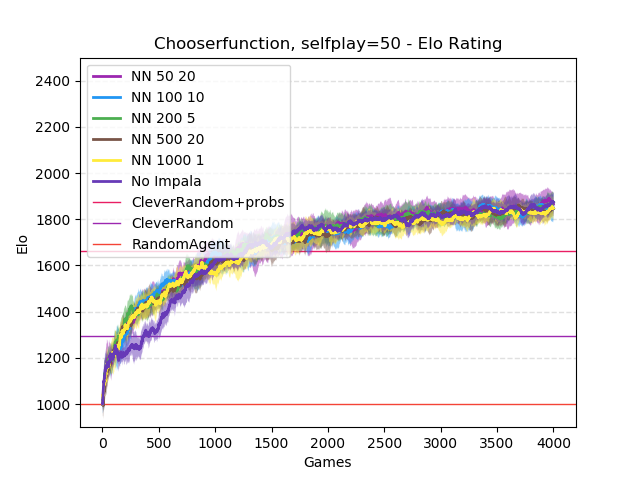
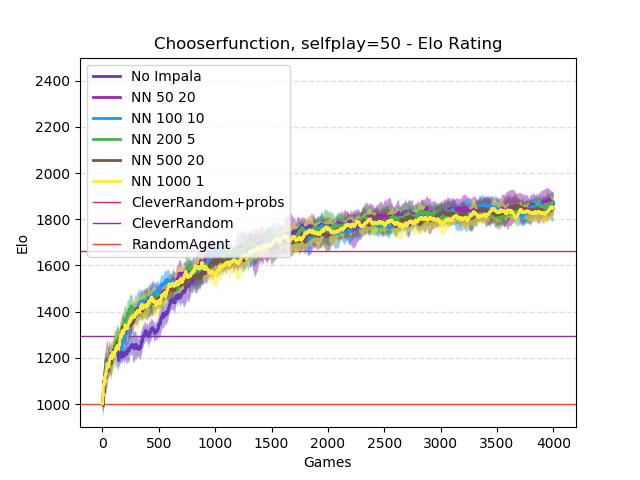
fix

diff --git a/plotgenerators/impalaplots.py b/plotgenerators/impalaplots.py
@@ -2,7 +2,7 @@ from plots import EloPlot, Data
 
 for chooser in ['random', 'weighted']:
     selfplay = 50
-    l = [(f'NN-Selfplay-{selfplay}-{chooser}-impala-20-20-50-20', 'NN 50 20', '#9C27B0'), (f'NN-Selfplay-{selfplay}-{chooser}-impala-20-20-100-10', 'NN 100 10', '#2196F3'), (f'NN-Selfplay-{selfplay}-{chooser}-impala-20-20-200-5', 'NN 200 5', '#4CAF50'), (f'NN-Selfplay-{selfplay}-{chooser}-impala-20-20-500-2', 'NN 500 20', '#795548'), (f'NN-Selfplay-{selfplay}-{chooser}-impala-20-20-1000-1', 'NN 1000 1', '#ffeb3b'), (f'NN-Selfplay-{selfplay}-{chooser}-lr=0.0002-K=2000', 'No Impala', '#673ab7')]
+    l = [(f'NN-Selfplay-{selfplay}-{chooser}-lr=0.0002-K=2000', 'No Impala', '#673ab7'), (f'NN-Selfplay-{selfplay}-{chooser}-impala-20-20-50-20', 'NN 50 20', '#9C27B0'), (f'NN-Selfplay-{selfplay}-{chooser}-impala-20-20-100-10', 'NN 100 10', '#2196F3'), (f'NN-Selfplay-{selfplay}-{chooser}-impala-20-20-200-5', 'NN 200 5', '#4CAF50'), (f'NN-Selfplay-{selfplay}-{chooser}-impala-20-20-500-2', 'NN 500 20', '#795548'), (f'NN-Selfplay-{selfplay}-{chooser}-impala-20-20-1000-1', 'NN 1000 1', '#ffeb3b')]
 
     with EloPlot(title=f'Chooserfunction, selfplay={selfplay} - Elo Rating', saves=[f'GoodPlots/Impala-{chooser}-1000.png']) as plt:
         for EloOverTime, name, agent, color in Data([f".\\outputs\\{a[0]}\\csv" for a in l], colors=[a[2] for a in l], elo=False):
